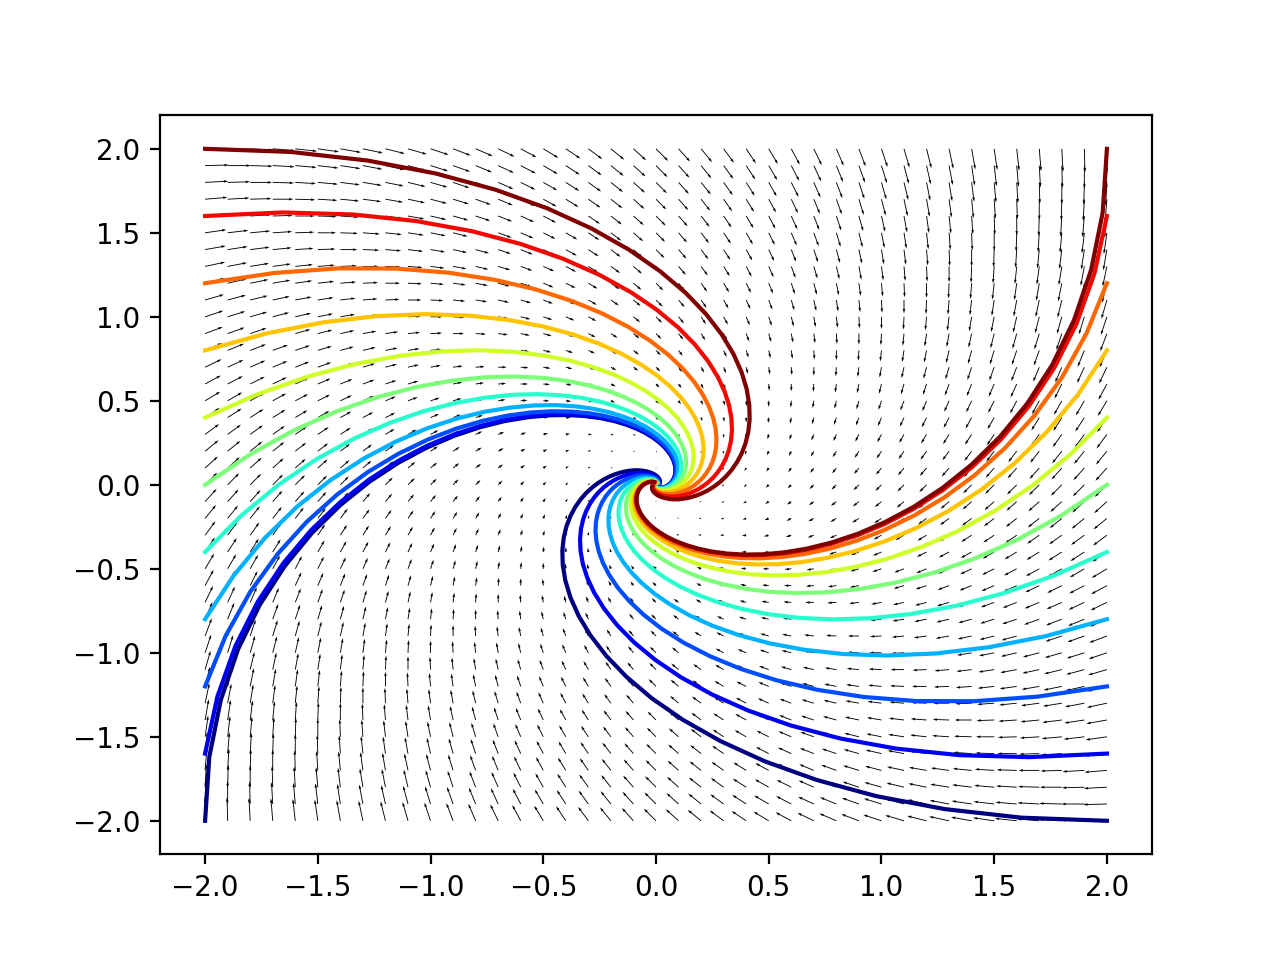
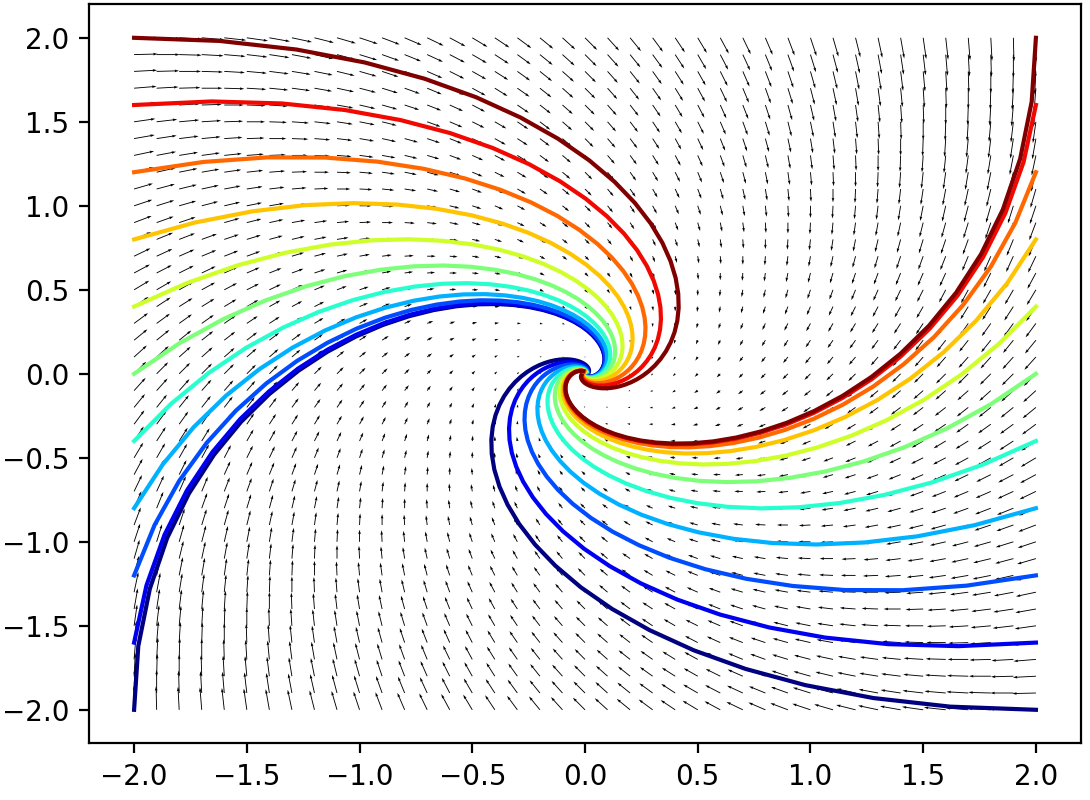
updoot demos page

Changed region(s): [[0.0, 0.0, 0.9982, 1.0], [0.4055, 0.9688, 0.4367, 1.0], [0.3119, 0.9688, 0.3431, 1.0]]

diff --git a/demos.html b/demos.html
@@ -7,7 +7,7 @@
     <link rel='shortcut icon' type='image/ico' href='/favicon.ico'/>
 
     <link rel="stylesheet" media="all" href="css/custom.css">
-    <link rel="stylesheet" media="all" href="css/research_custom.css">
+    <link rel="stylesheet" media="all" href="css/teaching_custom.css">
 
     <!-- Latest compiled and minified CSS -->
     <link rel="stylesheet" href="https://maxcdn.bootstrapcdn.com/bootstrap/3.3.5/css/bootstrap.min.css">
@@ -19,18 +19,20 @@
 
     <link href='https://fonts.googleapis.com/css?family=Poiret+One|Roboto:400,100italic,300,300italic|PT+Serif:400,400italic|Josefin+Slab:400,300italic|Judson:400,400italic|Poly:400,400italic|Mate:400,400italic|Comfortaa|Lato:300italic|Open+Sans|Source+Sans+Pro|PT+Sans' rel='stylesheet' type='text/css'>
 
- <script type="text/x-mathjax-config">
+
+<script type="text/x-mathjax-config">
   MathJax.Hub.Config({tex2jax: {inlineMath: [['$','$'], ['\\(','\\)']]}});
- </script>
- <script type="text/javascript"
-         src="http://cdn.mathjax.org/mathjax/latest/MathJax.js?config=TeX-AMS-MML_HTMLorMML">
- </script>
+</script>
+<script type="text/javascript"
+        src="http://cdn.mathjax.org/mathjax/latest/MathJax.js?config=TeX-AMS-MML_HTMLorMML">
+</script>
     <!--[if lt IE 9]>
     <script src="script/html5shiv.js"></script>
     <![endif]-->
 </head>
-<body>
 
+
+<body data-spy="scroll" data-target="#nav">
 <nav class="navbar navbar-default navbar-fixed-top">
     <div class="container">
         <div class="navbar-header">
@@ -49,7 +51,7 @@
             </ul>
             <ul class="nav navbar-nav navbar-right">
                 <li><a href="research.html">Research</a></li>
-                <li><a href="teaching.html">Teaching<span class="sr-only">(current)</span></a></li>
+                <li><a href="teaching.html">Teaching</a></li>
                 <li class="active"><a href="demos.html">Math Demos</a></li>
                 <li><a href="cv.pdf">C.V.</a></li>
             </ul>
@@ -57,49 +59,68 @@
     </div>
 </nav>
 
-<main id="teaching">
+<main id="teaching">    
+ <section class="container">
+        <section>
+            <div id="teaching-body" class="row">
+                <div class="col-sm-5">
+                <h3>Julia Set</h3>
+                <img src="teaching/pictures/Julia set-0.7269.1889.png" style="max-width:100%;" >
+                </div>
+                 <div class="col-sm-3">
+                <h3>Vectorfield and Trajectories</h3>
+                <img src="teaching/pictures/vectfield.png" style="max-width:100%;" >
+                </div>
+            </div>
+            <div id="teaching-body" class="row">
+                <div class="col-sm-4">
+                <h3>$\sin(z)$</h3>
+                <img src="teaching/pictures/complex_sin.png" style="max-width:100%;" >
+                </div>
+                <div class="col-sm-4">
+                <h3>$e^z$</h3>
+                <img src="teaching/pictures/complex_exp.png" style="max-width:100%;" >
+                </div>
+                <div class="col-sm-4">
+                <h3>$\sqrt{z}$</h3>
+                <img src="teaching/pictures/complex_sqrt.png" style="max-width:100%;" >
+                </div>
+            </div>
+            <div id="teaching-body" class="row">
+                <div class="col-sm-3">
+                   <h3>Animations</h3>
+                        <ul>
+                            <li> <a href="teaching/animations/luckyneedle.gif">Buffons Needle</a></li>
+                            <li> <a href="teaching/animations/rotation1.gif">Rotations are Linear</a></li>
+                            <li> <a href="teaching/animations/continuity-2.gif">$(\varepsilon,\delta)$ Continuity</a></li>
+                        </ul>
+                </div>
 
-    <section class="container">
-        <style>.bottom-two { margin-bottom: 2in;}</style>
-            <div class=bottom-two>
-	           <h3>Animations</h3>
-                &nbsp;
-                    <ul>
-                        <li> <a href="teaching/animations/luckyneedle.gif">Buffons Needle</a></li>
-                        <li> <a href="teaching/animations/rotation1.gif">Rotations are Linear</a></li>
-                        <li> <a href="teaching/animations/continuity-2.gif">$(\varepsilon,\delta)$ Continuity</a></li>
-                    </ul>
-	       </div>
+                <div class="col-sm-4">
+                    <h3>Slope field Examples (Desmos)</h3>
+                        <ul>
+                            <li> <a href="https://www.desmos.com/calculator/tcbfxeiyzt">$\frac{dy}{dx}=x^2-y$</a></li>
+                            <li> <a href="https://www.desmos.com/calculator/exydwtxn6f">$\frac{dy}{dx}=-2y$</a></li>
+                            <li> <a href="https://www.desmos.com/calculator/3zwq2b94g2">$\frac{dy}{dx}=3y^{\frac{2}{3}}$</a></li>
+                            <li> <a href="https://www.desmos.com/calculator/xarjxdh4s2">$\frac{dy}{dx}=y(2-y)$</a></li>
+                            <li> <a href="https://www.desmos.com/calculator/vq8gvmfmkf">$\frac{dy}{dx}=-\frac{y}{x}$</a></li>
+                        </ul>
+                </div>
+        
+                <div class="col-sm-4">
+                    <h3>Sample Scripts</h3>
+                        <ul>
+                            <li> <a href="teaching/samplescripts/slope_field_plotting_example.m">A sample sciript for creating a slopefield (MATLAB)</a></li>
+                            <li> <a href="teaching/samplescripts/buffonsneedle_example.m">Approximating $\pi$ by "dropping" needles (MATLAB)</a></li>
+                            <li> <a href="teaching/samplescripts/complex_plotter.py">Complex Function Plotter (Python)</a></li>
+                            <li> <a href="teaching/samplescripts/rk4example.py">Using 4th order Runge Kutta to solve an ODE (Python)</a></li>
+                            <li> <a href="teaching/samplescripts/fractal.py">A script to generate Julia sets (Python)</a></li>
+                        </ul>
+                </div>
+            </div>
+            
+        </section>       
     </section>
-
-    <section class="container">
-        <style>.bottom-two { margin-bottom: 2in;}</style>
-            <div class=bottom-two>
-                <h3>Slope field Examples (Desmos)</h3>
-                    <ul>
-                        <li> <a href="https://www.desmos.com/calculator/tcbfxeiyzt">$\text{Slope field for }\frac{dy}{dx}=x^2-y$</a></li>
-                        <li> <a href="https://www.desmos.com/calculator/exydwtxn6f">$\text{Slope field for }\frac{dy}{dx}=-2y$</a></li>
-                    	<li> <a href="https://www.desmos.com/calculator/3zwq2b94g2">$\text{Slope field for }\frac{dy}{dx}=3y^{\frac{2}{3}}$</a></li>
-                    	<li> <a href="https://www.desmos.com/calculator/xarjxdh4s2">$\text{Slope field for }\frac{dy}{dx}=y(2-y)$</a></li>
-                        <li> <a href="https://www.desmos.com/calculator/vq8gvmfmkf">$\text{Slope field for }\frac{dy}{dx}=-\frac{y}{x}$</a></li>
-                	</ul>
-        	</div>
-    </section>
-			
-    <section class="container">
-        <style>.bottom-two { margin-bottom: 2in;}</style>
-            <div class=bottom-two>
-                <h3>Sample Scripts</h3>
-                    <ul>
-                    	<li> <a href="teaching/samplescripts/slope_field_plotting_example.m">A sample sciript for creating a slopefield (MATLAB)</a></li>
-                        <li> <a href="teaching/samplescripts/buffonsneedle_example.m">Approximating $\pi$ by "dropping" needles (MATLAB)</a></li>
-                        <li> <a href="teaching/samplescripts/complex_plotter.py">Complex Function Plotter (Python)</a></li>
-                        <li> <a href="teaching/samplescripts/rk4example.py">Using 4th order Runge Kutta to solve an ODE (Python)</a></li>
-                        <li> <a href="teaching/samplescripts/fractal.py">A script to generate Julia sets (Python)</a></li>
-                	</ul>
-        	</div>
-    </section>
-
 </main>
 <!-- jQuery (necessary for Bootstrap's JavaScript plugins) -->
 <script src="https://ajax.googleapis.com/ajax/libs/jquery/1.11.3/jquery.min.js"></script>
